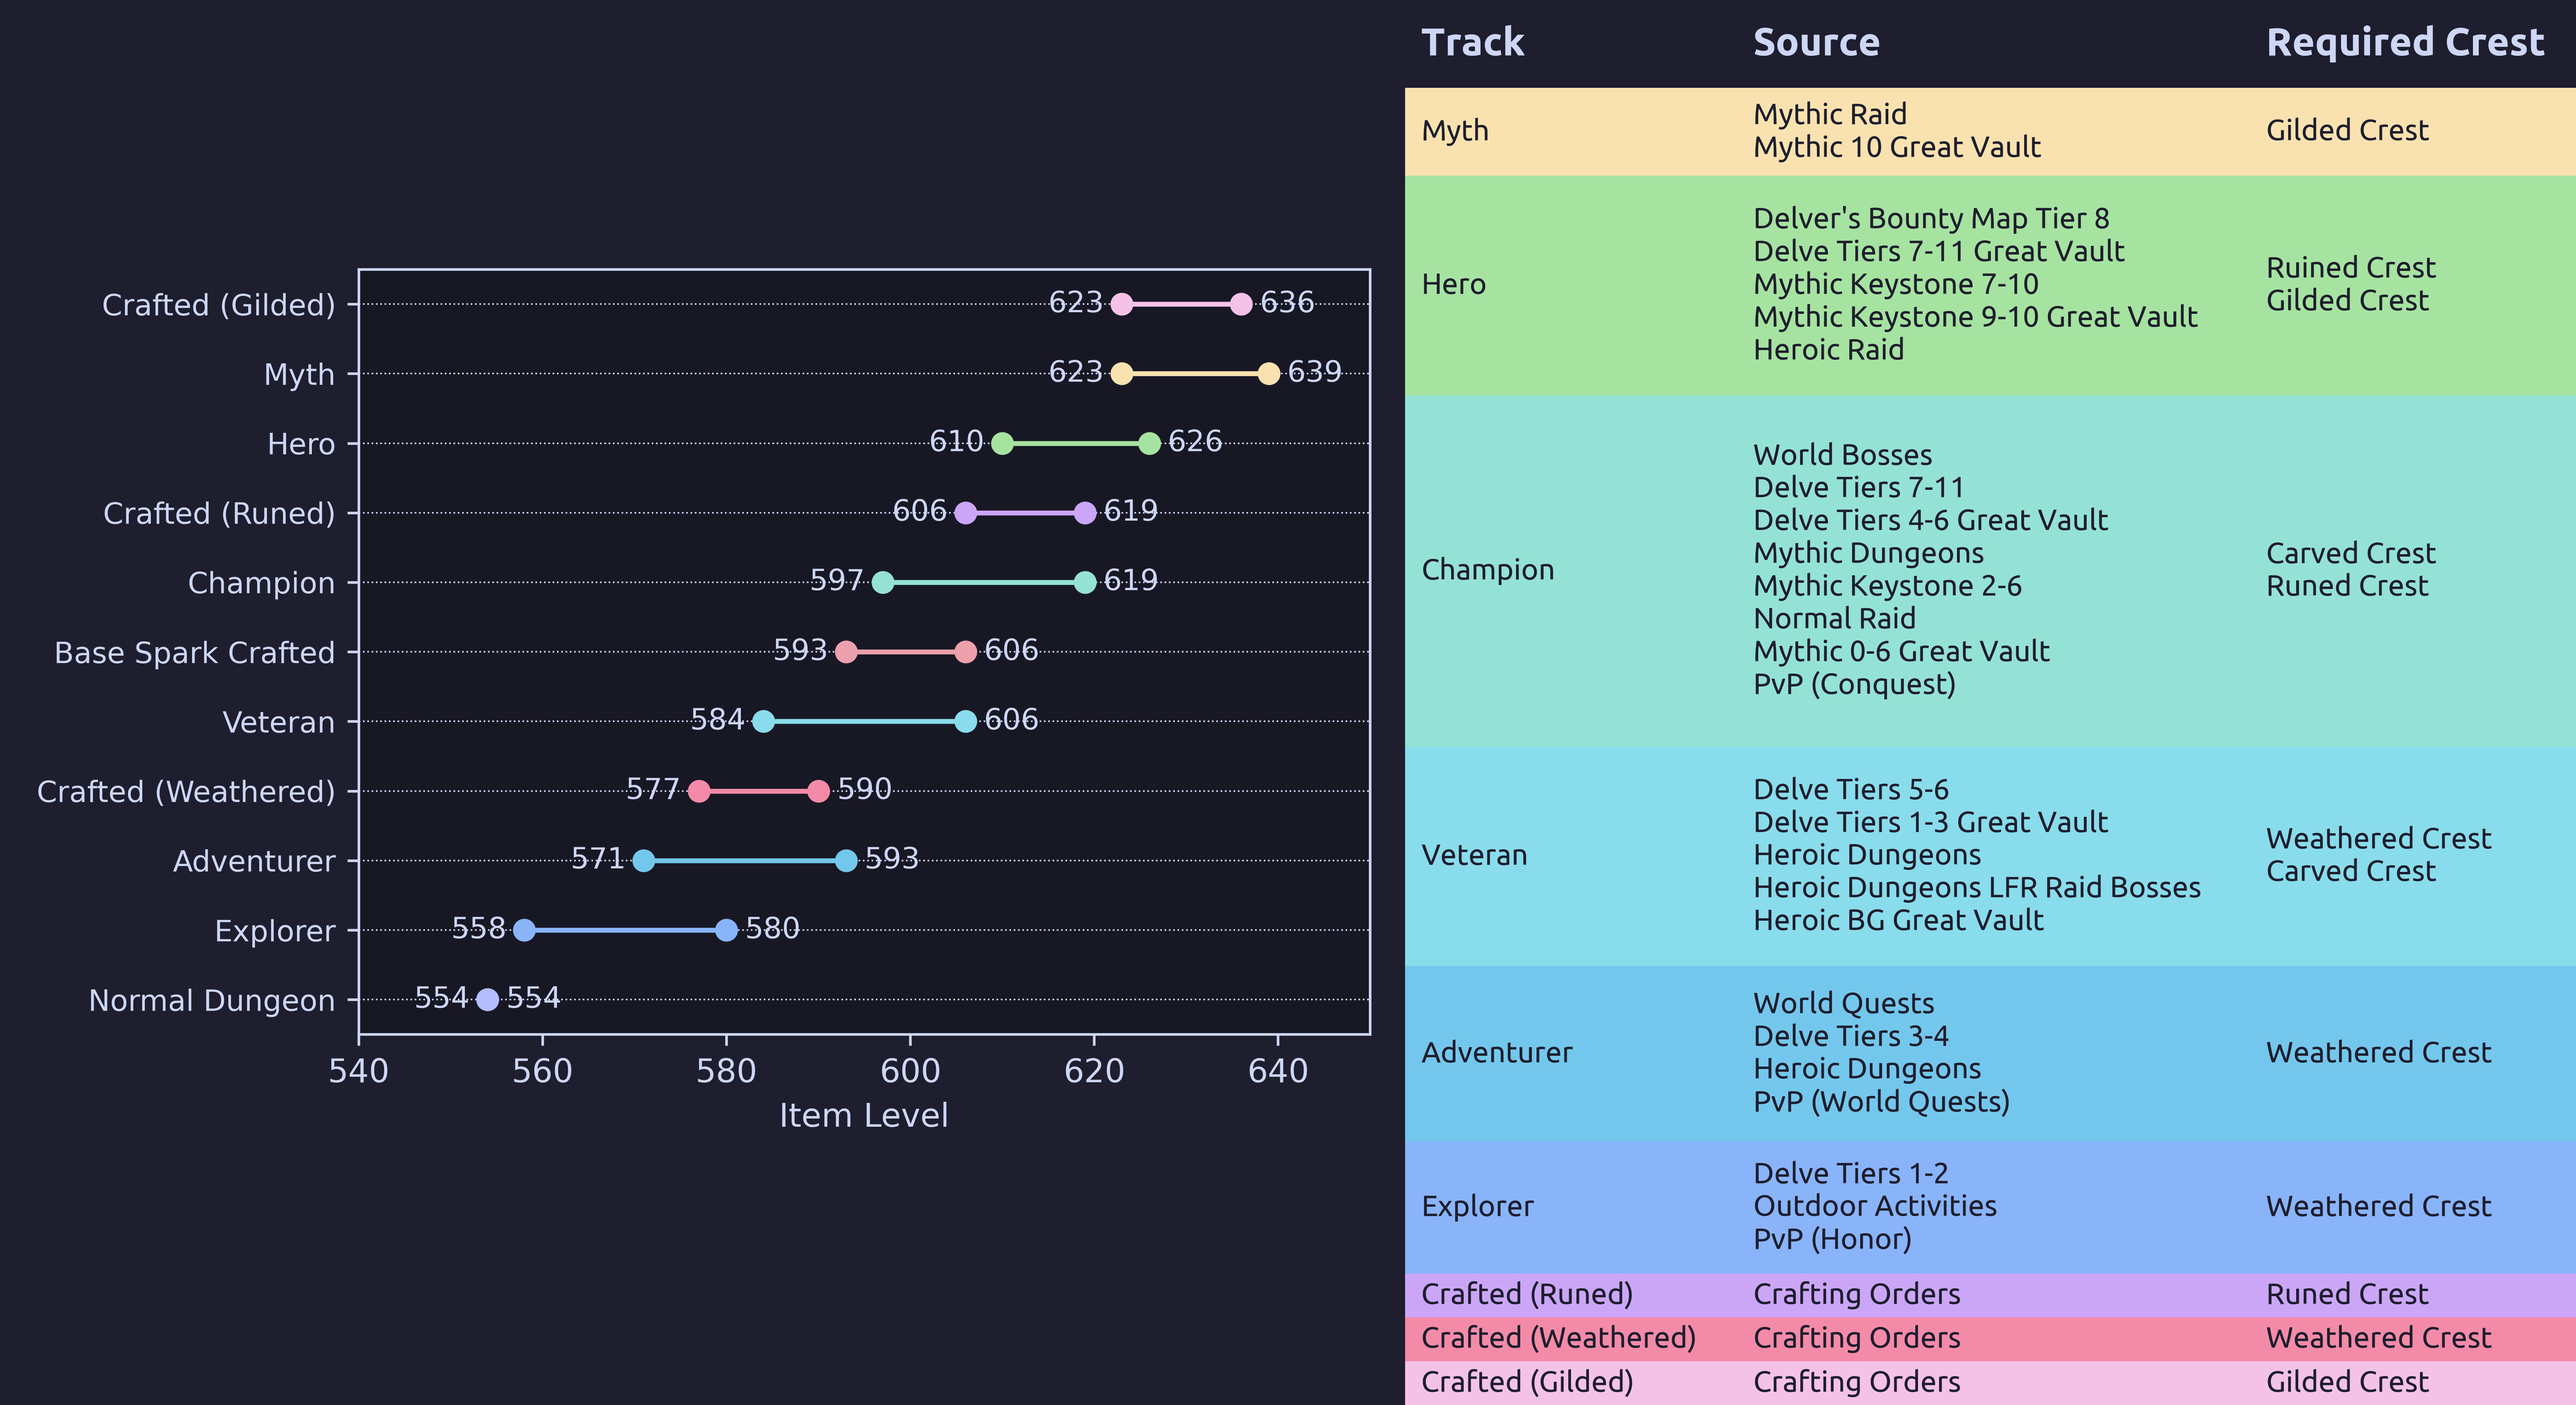
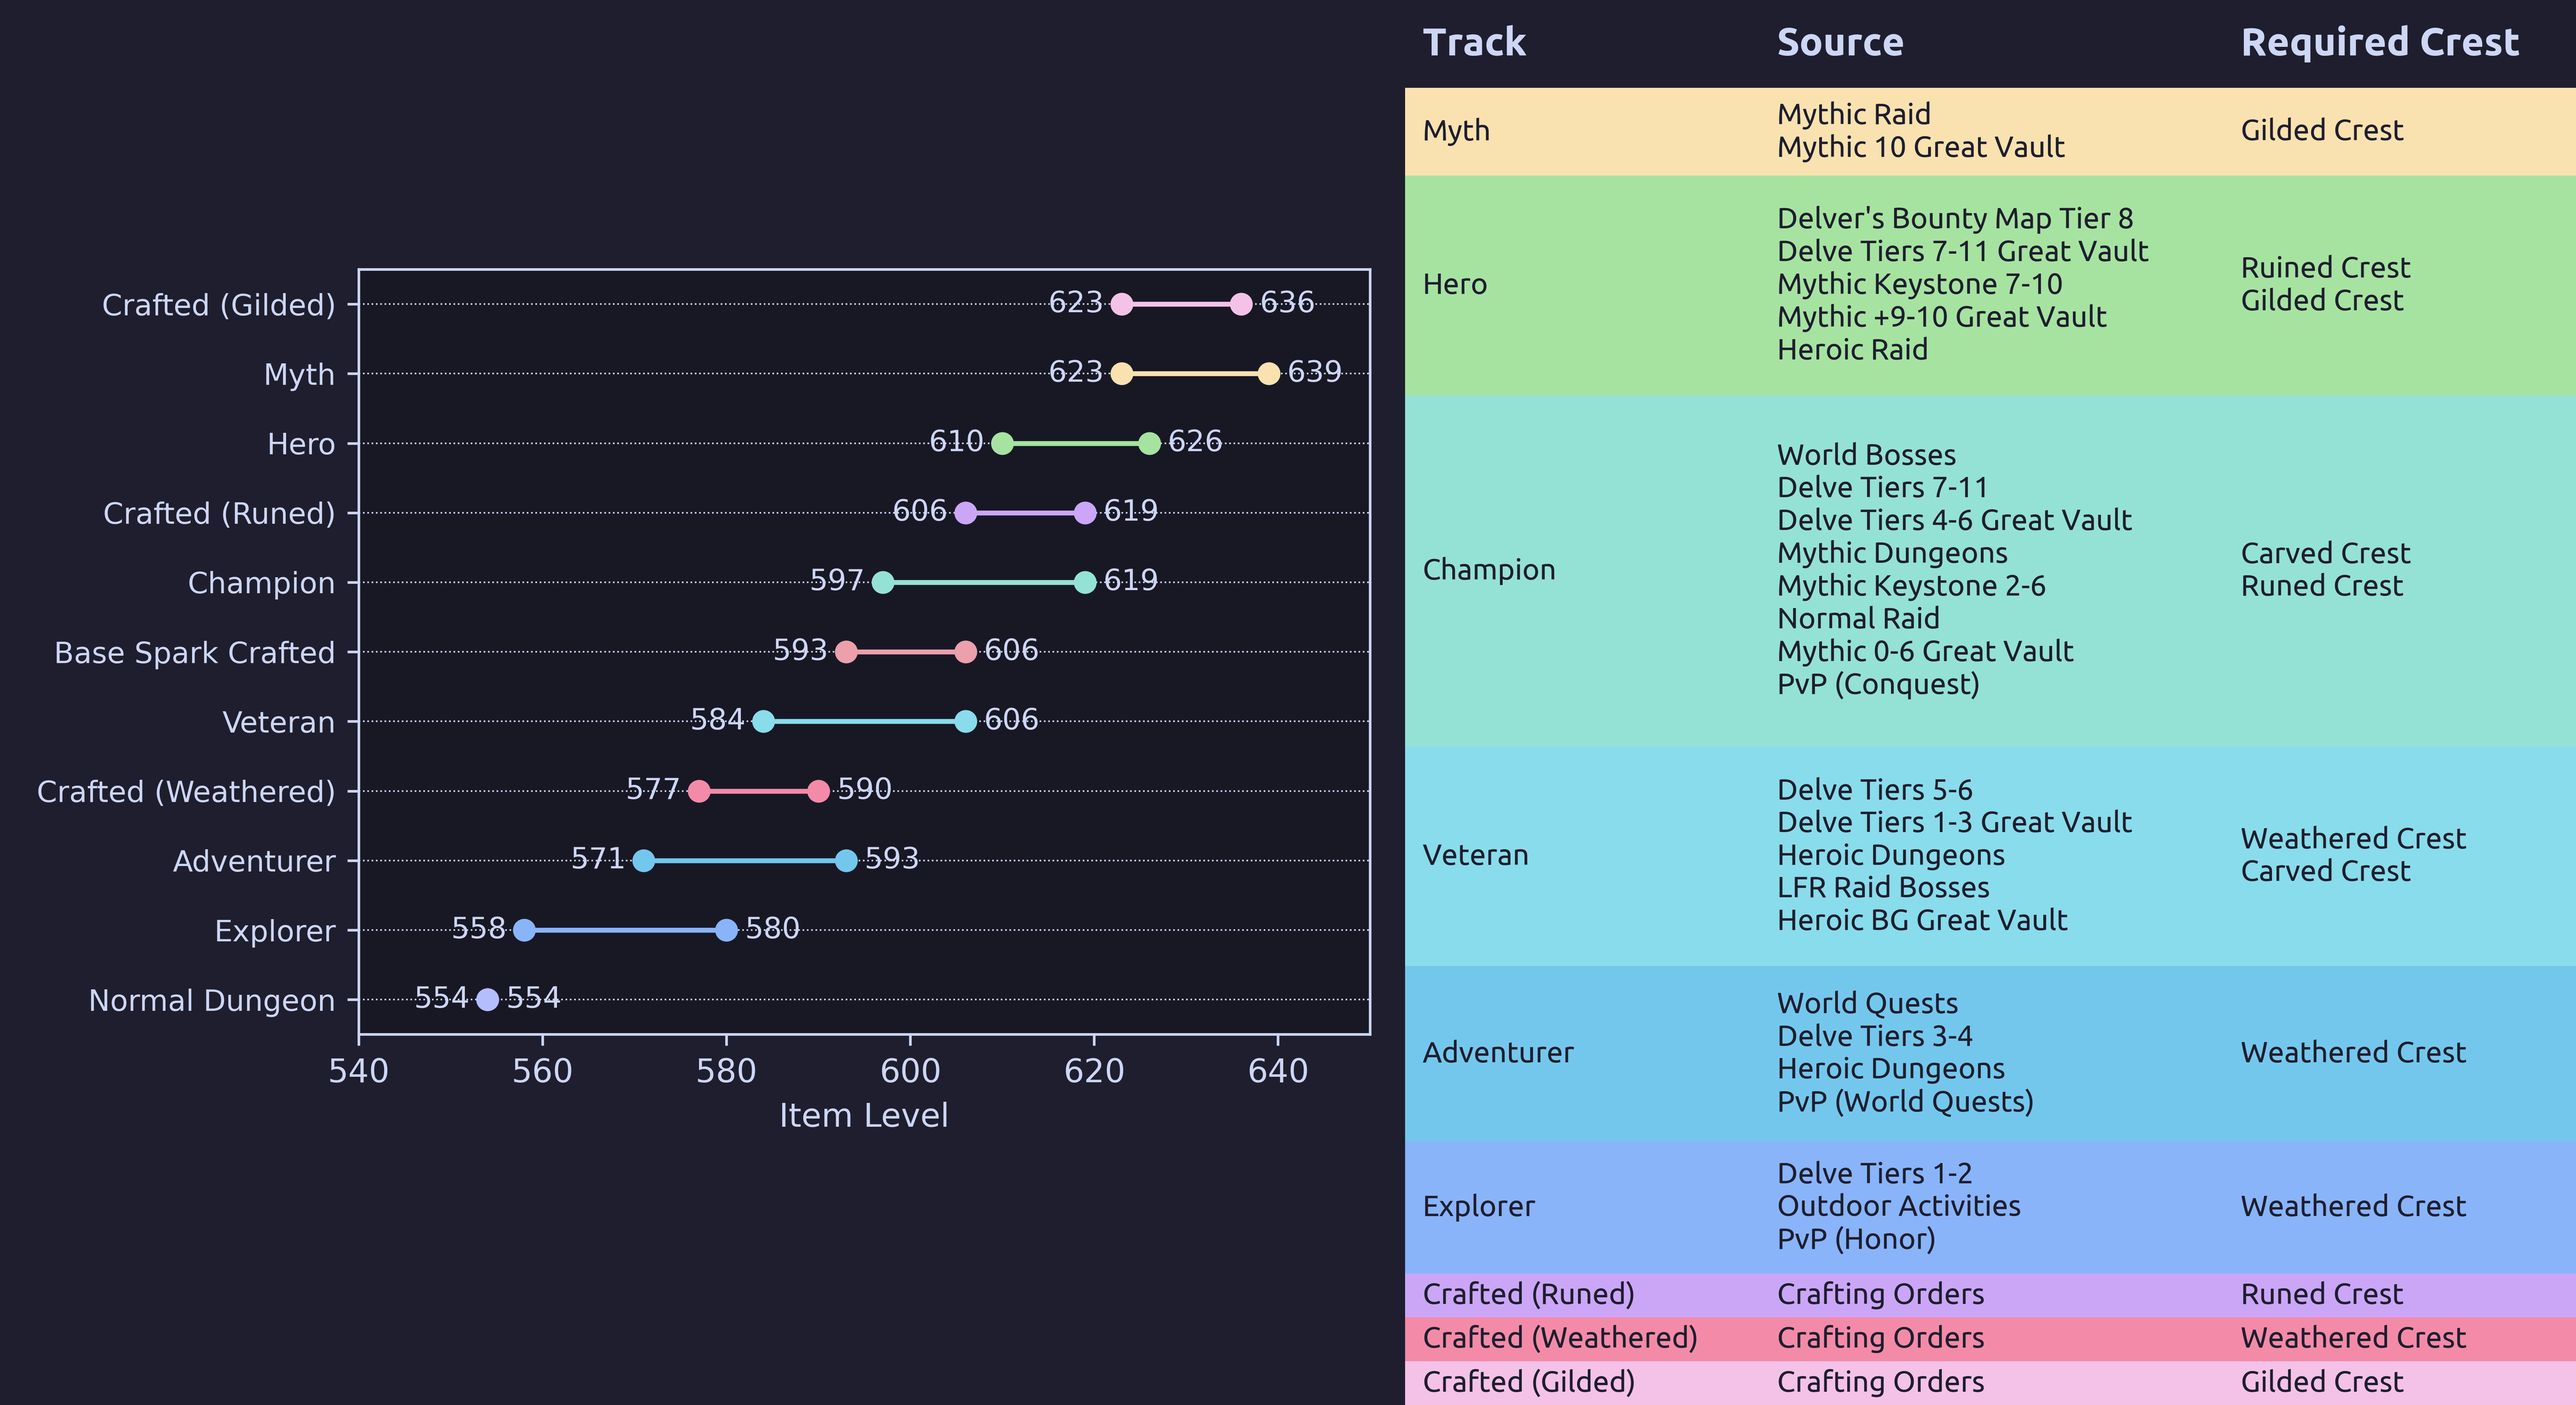
more fixes

diff --git a/gear_prog/data.py b/gear_prog/data.py
@@ -65,7 +65,7 @@ gear_source_data = {
             "Delver's Bounty Map Tier 8",
             "Delve Tiers 7-11 Great Vault",
             "Mythic Keystone 7-10",
-            "Mythic Keystone 9-10 Great Vault",
+            "Mythic +9-10 Great Vault",
             "Heroic Raid",
         ],
         "Required Crest": "Ruined Crest\nGilded Crest",
@@ -88,7 +88,7 @@ gear_source_data = {
             "Delve Tiers 5-6",
             "Delve Tiers 1-3 Great Vault",
             "Heroic Dungeons",
-            "Heroic Dungeons LFR Raid Bosses",
+            "LFR Raid Bosses",
             "Heroic BG Great Vault",
         ],
         "Required Crest": "Weathered Crest\nCarved Crest",
